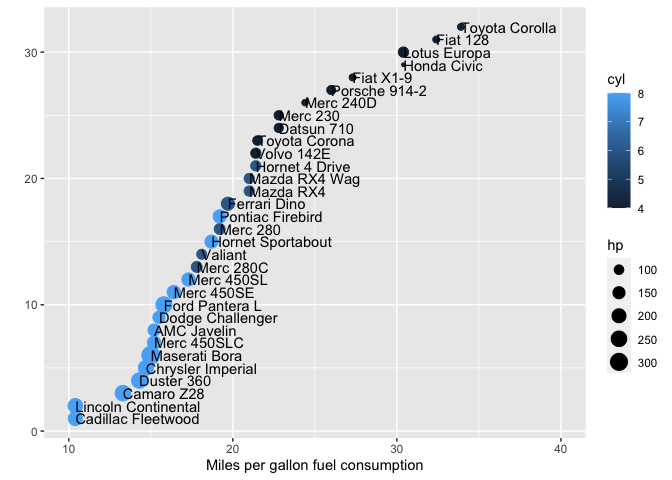
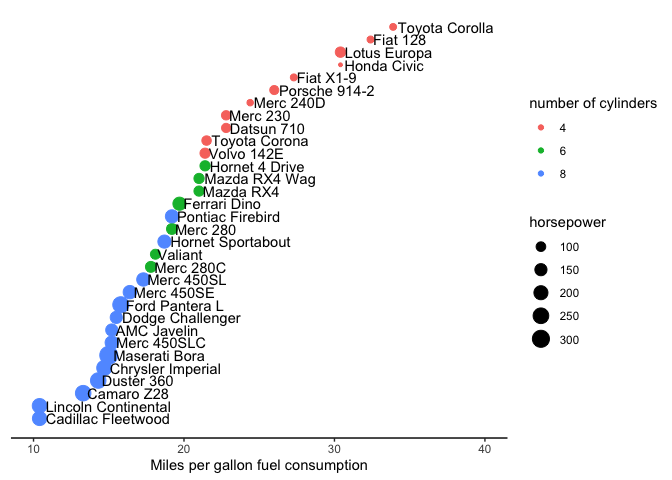
Figure with lable edited

diff --git a/Assignment_6.md b/Assignment_6.md
@@ -205,14 +205,20 @@ mtcars2<-mtcars1 %>%
 | Valiant           | 18.1 |         14 |   6 | 105 |
 
 ``` r
+mtcars2$cyl <-  as.factor(mtcars2$cyl)
+```
+
+``` r
 ggplot(mtcars2, aes(x = mpg, y = mpg_order, label = rowname))+  #, color = cyl)+
    
-   geom_point(aes(size = hp, color = cyl)) + geom_text(aes(label = rowname), hjust =0) +
+   geom_point(aes(color = cyl, size = hp)) + geom_text(aes(label = rowname), hjust =-0.05) +
                 
    xlim(10, 40)+
      
    labs(x = "Miles per gallon fuel consumption",
-        y = "")
+          color = "number of cylinders", size = "horsepower")+
+    theme_classic()+
+  theme(axis.line.y = element_blank(), axis.title.y = element_blank(),axis.text.y = element_blank(), axis.ticks.y = element_blank())
 ```
 
 ![](Assignment_6_files/figure-gfm/unnamed-chunk-11-1.png)<!-- -->
